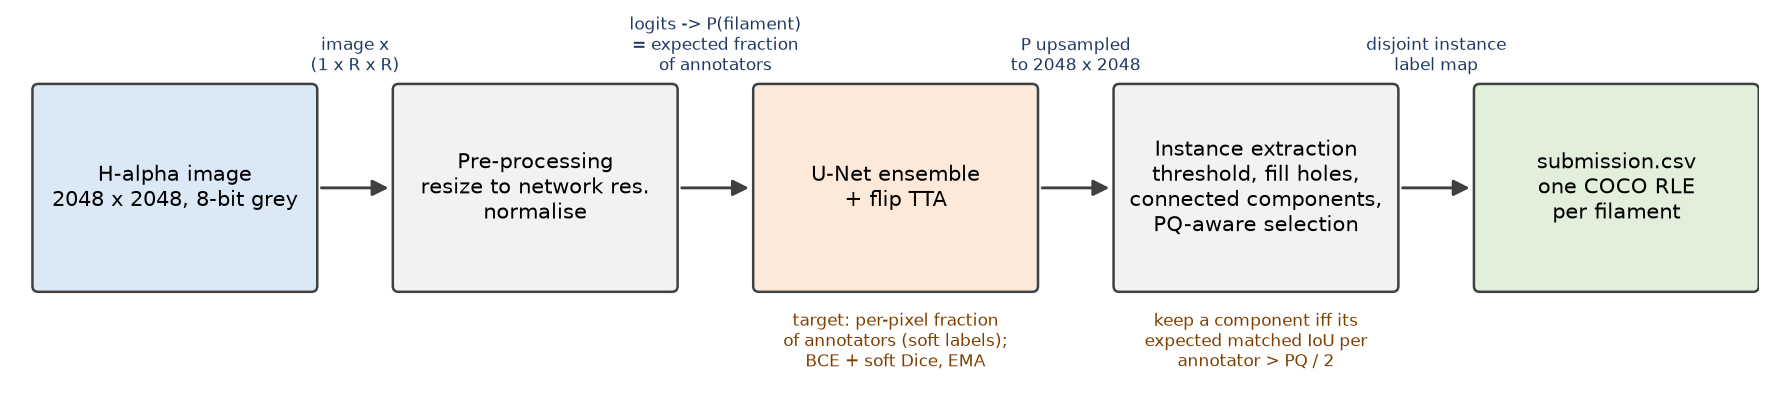
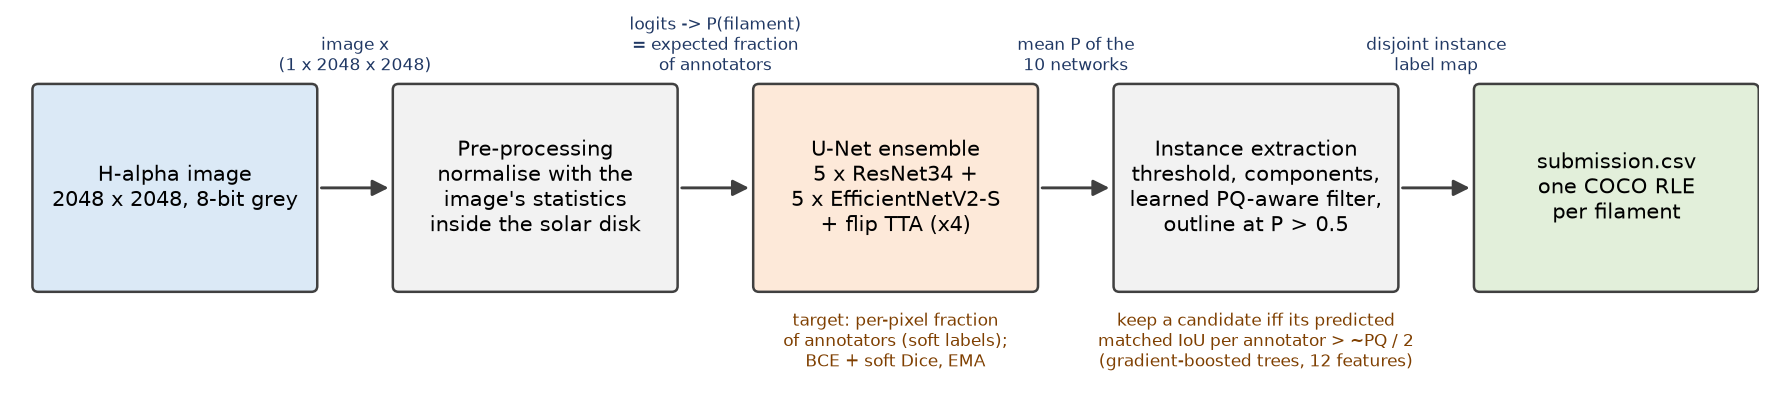
Figures: pipeline diagram with ensemble and learned filter; validation overlays of the final configuration (ensemble maps supported)

diff --git a/scripts/make_figures.py b/scripts/make_figures.py
@@ -23,13 +23,13 @@ def pipeline_diagram(path: Path = FIG / "pipeline.png") -> Path:
     """System block diagram: inputs, processing blocks, key intermediate signals, outputs."""
     blocks = [
         ("H-alpha image\n2048 x 2048, 8-bit grey", "#dbe9f6"),
-        ("Pre-processing\nresize to network res.\nnormalise", "#f2f2f2"),
-        ("U-Net ensemble\n+ flip TTA", "#fde9d9"),
-        ("Instance extraction\nthreshold, fill holes,\nconnected components,\nPQ-aware selection", "#f2f2f2"),
+        ("Pre-processing\nnormalise with the\nimage's statistics\ninside the solar disk", "#f2f2f2"),
+        ("U-Net ensemble\n5 x ResNet34 +\n5 x EfficientNetV2-S\n+ flip TTA (x4)", "#fde9d9"),
+        ("Instance extraction\nthreshold, components,\nlearned PQ-aware filter,\noutline at P > 0.5", "#f2f2f2"),
         ("submission.csv\none COCO RLE\nper filament", "#e2efda"),
     ]
-    signals = ["image x\n(1 x R x R)", "logits -> P(filament)\n= expected fraction\nof annotators",
-               "P upsampled\nto 2048 x 2048", "disjoint instance\nlabel map"]
+    signals = ["image x\n(1 x 2048 x 2048)", "logits -> P(filament)\n= expected fraction\nof annotators",
+               "mean P of the\n10 networks", "disjoint instance\nlabel map"]
     fig, ax = plt.subplots(figsize=(15, 3.2))
     ax.set_xlim(0, 15)
     ax.set_ylim(0, 3.2)
@@ -46,7 +46,7 @@ def pipeline_diagram(path: Path = FIG / "pipeline.png") -> Path:
         ax.text((x0 + x1) / 2, y + h + 0.12, s, ha="center", va="bottom", fontsize=8, color="#203864")
     ax.text(xs[2] + w / 2, 0.42, "target: per-pixel fraction\nof annotators (soft labels);\nBCE + soft Dice, EMA",
             ha="center", va="center", fontsize=8, color="#7f3f00")
-    ax.text(xs[3] + w / 2, 0.42, "keep a component iff its\nexpected matched IoU per\nannotator > PQ / 2",
+    ax.text(xs[3] + w / 2, 0.42, "keep a candidate iff its predicted\nmatched IoU per annotator > ~PQ / 2\n(gradient-boosted trees, 12 features)",
             ha="center", va="center", fontsize=8, color="#7f3f00")
     path.parent.mkdir(parents=True, exist_ok=True)
     fig.savefig(path, dpi=150, bbox_inches="tight")
@@ -69,8 +69,11 @@ def overlays(probs_npz: Path, post_json: Path, data_dir: Path, image_ids: list[s
     from filseg import data
     from filseg.postprocess import PostConfig, instances_from_prob, upsample
 
+    sys.path.insert(0, str(ROOT / "scripts"))
+    from analyze_oof import load_probs
+
     groups = data.group_by_image(data.load_entries(data_dir / "train" / data.TRAIN_JSON))
-    probs = np.load(probs_npz)
+    probs = load_probs([Path(p) for p in str(probs_npz).split(",")])  # several files: ensemble mean
     cfg = PostConfig(**json.loads(Path(post_json).read_text()))
     colors = [(255, 60, 60), (60, 220, 60), (60, 140, 255)]
     fig, axes = plt.subplots(len(image_ids), 3, figsize=(15, 5 * len(image_ids)))
@@ -82,7 +85,7 @@ def overlays(probs_npz: Path, post_json: Path, data_dir: Path, image_ids: list[s
             for poly in e.polygons:
                 pts = np.round(np.array(poly).reshape(-1, 2)).astype(np.int32)
                 cv2.polylines(gt_vis, [pts], True, col, 3)
-        lab, _ = instances_from_prob(upsample(probs[iid].astype(np.float32) / 255.0), cfg)
+        lab, _ = instances_from_prob(upsample(probs[iid]), cfg)
         pred_vis = cv2.cvtColor(img, cv2.COLOR_GRAY2RGB)
         palette = [(255, 215, 0), (255, 0, 255), (0, 255, 255), (255, 128, 0), (0, 255, 0), (255, 64, 64)]
         for k in range(1, lab.max() + 1):
